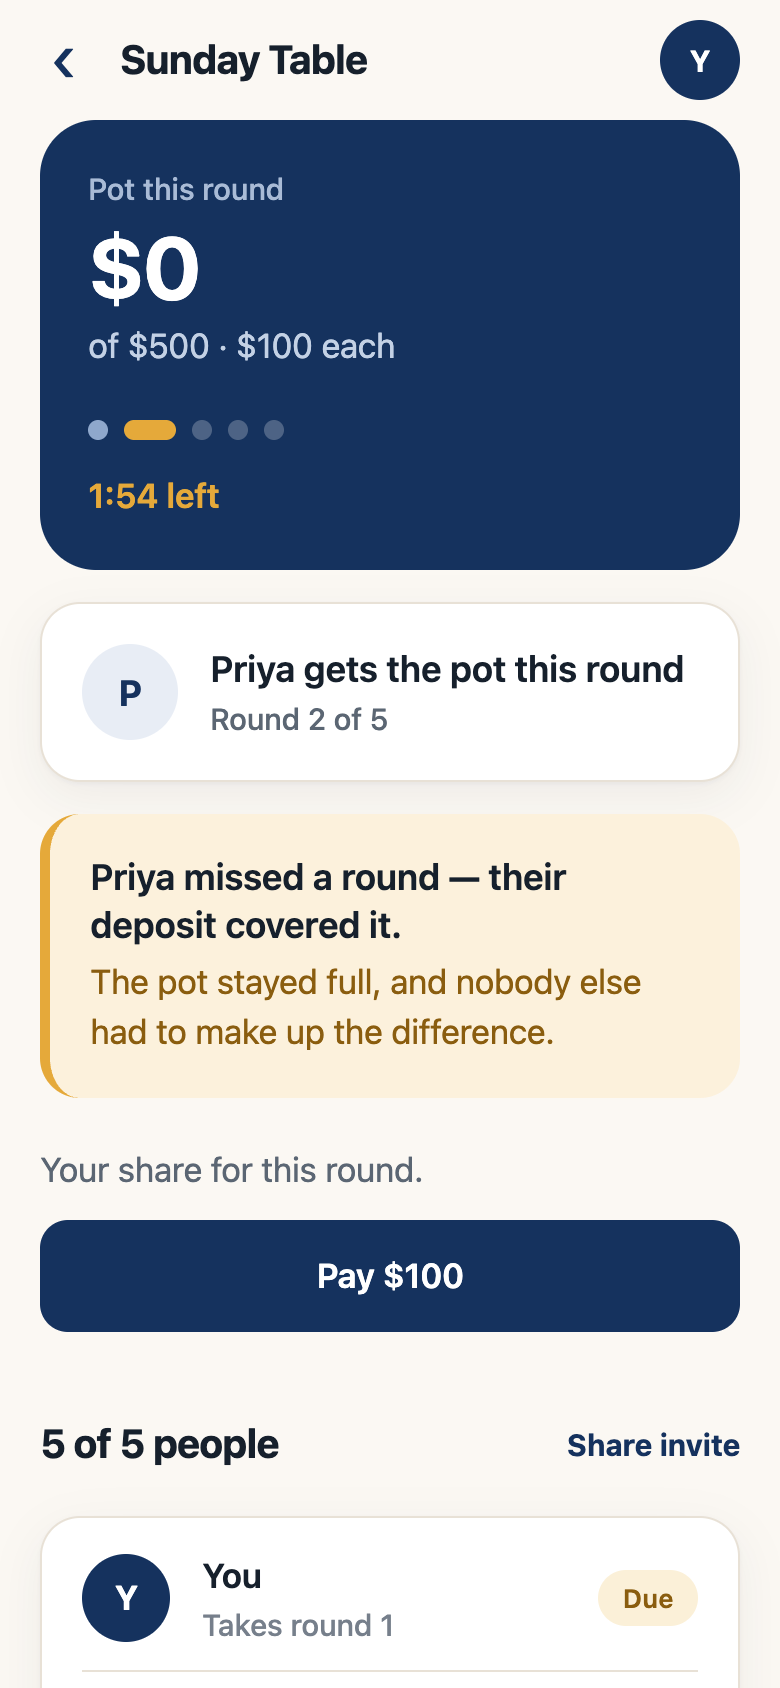
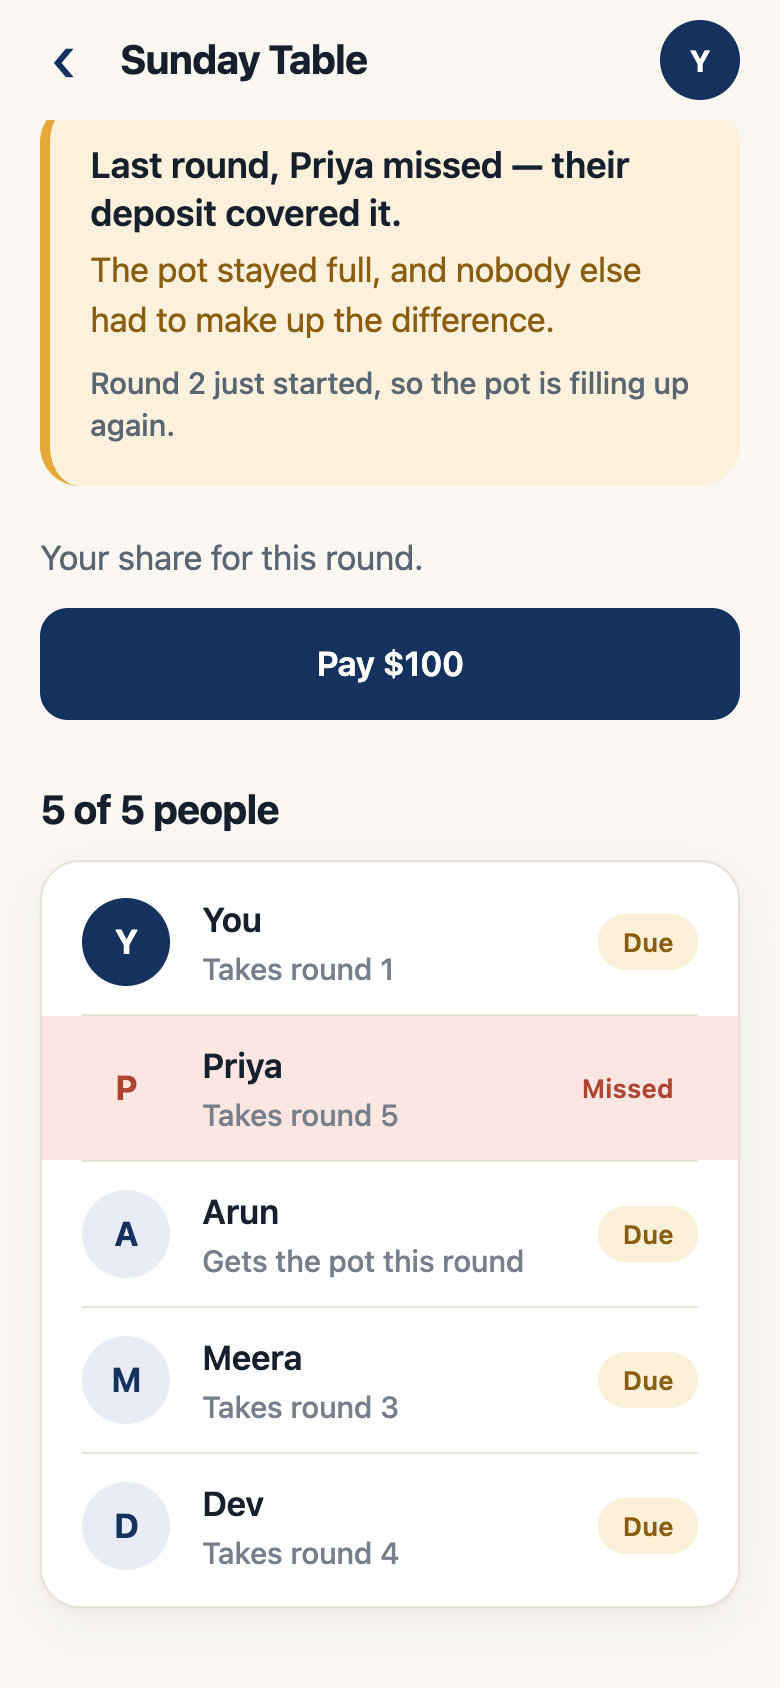
Record the dripper's burn rate and add the new screens
The dripper ran dry during testing and the only symptom was "We could
not finish setting up your account" — which reads as a bug in the app
rather than an empty funding account. Worth writing down: gas is the
binding constraint, not dollars. Every sign-up costs about 0.06 MON,
roughly 20 per MON, while the AUSD claimed from the faucet covers 60.

diff --git a/README.md b/README.md
@@ -113,6 +113,20 @@ still throws. An account with gas but no money can sign in, look around, and be
 topped up by a teammate — so if the dripper runs dry, setup says so in a
 sentence and finishes anyway.
 
+**Check the dripper before you demo.** Every sign-up costs it about 0.06 MON —
+0.05 handed over, plus the fee on the AUSD transfer — so roughly 20 sign-ups per
+MON. It ran dry mid-testing and the only symptom was "We could not finish
+setting up your account", which looks like a bug in the app rather than an empty
+account. Gas is the binding constraint, not dollars: the $30,000 of AUSD claimed
+from the faucet is 60 sign-ups, while a MON balance disappears far faster.
+
+```sh
+# dripper address is derived from EXPO_PUBLIC_GAS_FUNDER_KEY, never printed here
+cast balance   <dripper> --rpc-url https://testnet-rpc.monad.xyz --ether
+cast call 0xa9012a055bd4e0eDfF8Ce09f960291C09D5322dC \
+  'balanceOf(address)(uint256)' <dripper> --rpc-url https://testnet-rpc.monad.xyz
+```
+
 A paymaster plus a sponsored first deposit is still the real answer, and is not
 in this submission.
 

diff --git a/docs/screenshots/README.md b/docs/screenshots/README.md
@@ -49,3 +49,6 @@ followed too late, after the circle filled up.
 | `18-error-bad-link.png` | `welcome-bad-link` | An invite link that arrived truncated |
 | `19-setup-failed.png` | `setup-failed` | Account setup did not finish |
 | `20-circle-closed.png` | `detail-closed` | A link that arrived too late — the circle is full, so there is nothing to offer |
+| `21-setup-funded.png` | `setup-funded` | End of sign-up: the account has gas **and** $500 to spend |
+| `22-setup-dry.png` | `setup-dry` | The dripper ran out — a sentence you can act on, not an error |
+| `23-welcome-back.png` | `home-welcome-back` | Signed back in on a device holding nothing; the circles came back |
